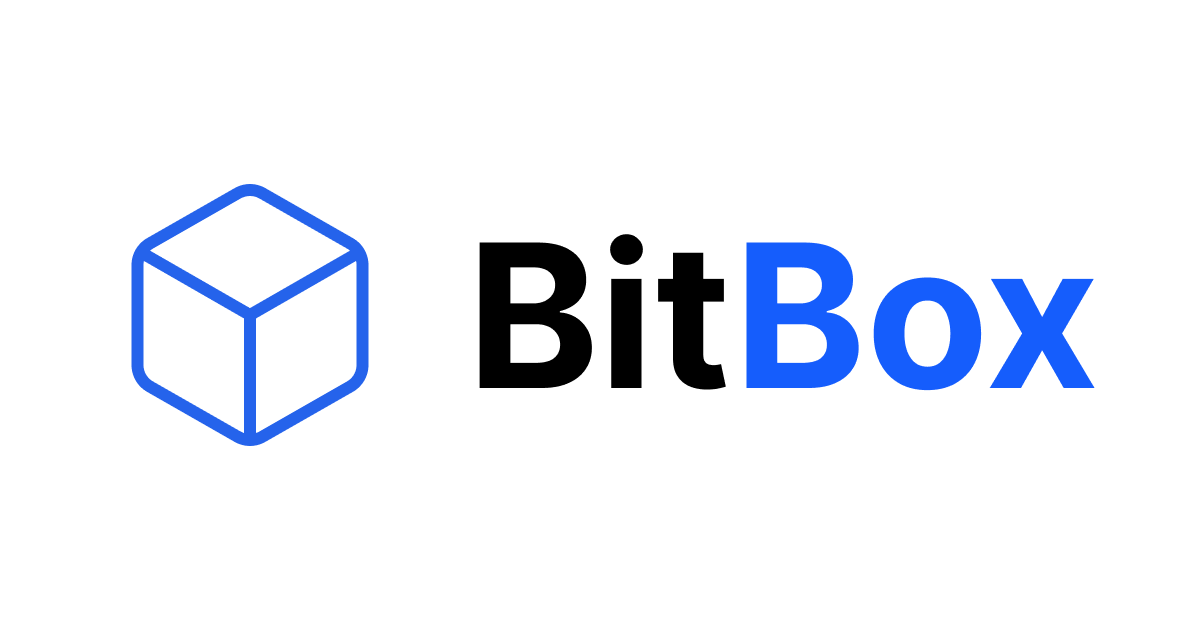
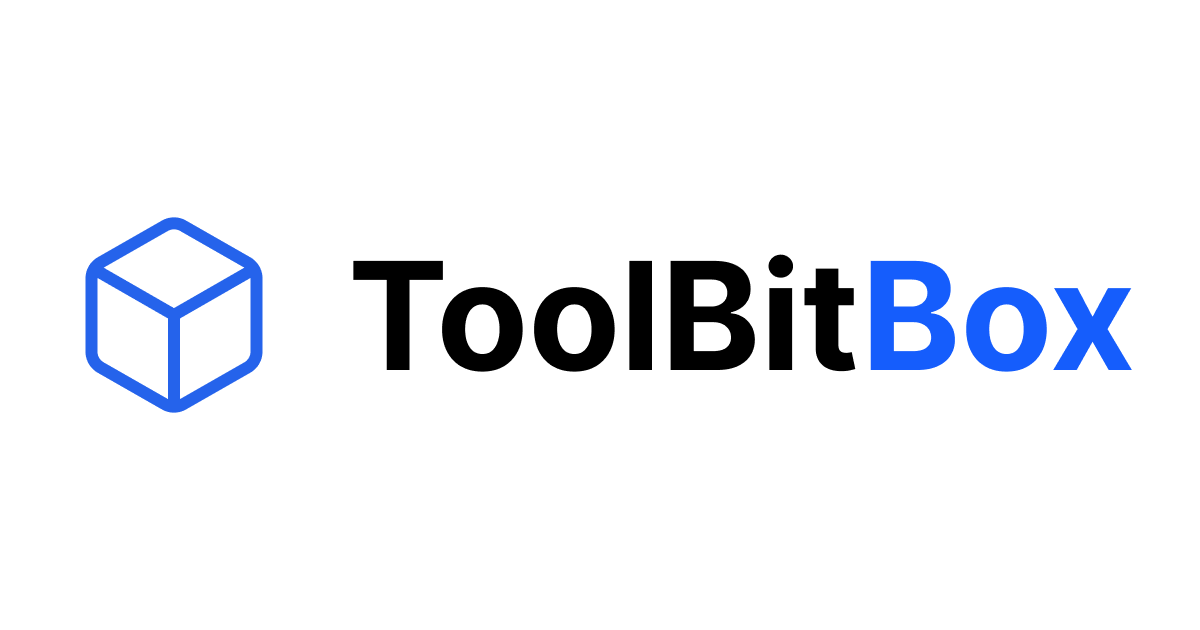
:recycle: rename project from bitbox to toolbitbox

Changed region(s): [[0.0617, 0.2714, 0.9558, 0.7238]]

diff --git a/src/app/layout.tsx b/src/app/layout.tsx
@@ -19,8 +19,8 @@ const geistMono = Geist_Mono({
 
 export const metadata: Metadata = {
   title: {
-    template: "%s | BitBox", // 페이지별 타이틀 뒤에 자동으로 붙음 (예: 진법 변환기 | BitBox)
-    default: "BitBox - 개발자를 위한 스마트 도구 상자", // 기본 타이틀
+    template: "%s | ToolBitBox", // 페이지별 타이틀 뒤에 자동으로 붙음 (예: 진법 변환기 | BitBox)
+    default: "ToolBitBox - 개발자를 위한 스마트 도구 상자", // 기본 타이틀
   },
   description:
     "2진수, 8진수, 16진수 변환부터 2의 보수 계산까지. 컴퓨터 공학 전공자와 개발자를 위한 필수 웹 유틸리티 모음입니다.",
@@ -30,19 +30,19 @@ export const metadata: Metadata = {
     "16진수 계산",
     "2의 보수",
     "개발자 도구",
-    "BitBox",
+    "ToolBitBox",
   ],
-  authors: [{ name: "BitBox Team" }],
-  creator: "BitBox Team",
+  authors: [{ name: "ToolBitBox Team" }],
+  creator: "ToolBitBox Team",
   verification: {
     google: "wD1i8ns0RmEvTKPEiElHXByzNaW_HYA_UHiGv-XidUU",
   },
   openGraph: {
-    title: "BitBox - 개발자를 위한 스마트 도구 상자",
+    title: "ToolBitBox - 개발자를 위한 스마트 도구 상자",
     description:
-      "복잡한 계산은 BitBox에 맡기세요. 빠르고 정확한 개발자용 도구 모음.",
+      "복잡한 계산은 ToolBitBox에 맡기세요. 빠르고 정확한 개발자용 도구 모음.",
     url: "https://bit-box.vercel.app",
-    siteName: "BitBox",
+    siteName: "ToolBitBox",
     images: [
       {
         url: "/opengraph-image.png",

diff --git a/src/components/footer.tsx b/src/components/footer.tsx
@@ -11,7 +11,7 @@ export function Footer() {
           <div className="flex flex-col items-center gap-2 md:items-start">
             <div className="flex items-center gap-2">
               <Box className="h-5 w-5 text-blue-600" />
-              <span className="text-lg font-bold">BitBox</span>
+              <span className="text-lg font-bold">ToolBitBox</span>
             </div>
             <p className="text-sm text-slate-500">
               개발자와 학생을 위한 스마트한 도구 상자
@@ -26,15 +26,12 @@ export function Footer() {
             <a href="/about" className="hover:text-blue-600">
               About
             </a>
-            {/* <a href="mailto:contact@bitbox.com" className="hover:text-blue-600">
-              Contact
-            </a> */}
           </div>
 
           {/* 소셜/링크 아이콘 */}
           <div className="flex items-center gap-4 text-slate-400">
             <a
-              href="https://github.com/Jeongin205/bitbox"
+              href="https://github.com/Jeongin205/toolbitbox"
               target="_blank"
               className="hover:text-slate-900"
             >
@@ -44,7 +41,7 @@ export function Footer() {
         </div>
 
         <div className="mt-8 border-t pt-8 text-center text-xs text-slate-400">
-          <p>© 2026 BitBox. Built by Ji-in in Software Engineering.</p>
+          <p>© 2026 ToolBitBox. Built by Ji-in in Software Engineering.</p>
         </div>
       </div>
     </footer>

diff --git a/src/app/about/page.tsx b/src/app/about/page.tsx
@@ -13,7 +13,8 @@ import { Badge } from "@/components/ui/badge";
 
 export const metadata: Metadata = {
   title: "소개 (About)",
-  description: "BitBox 프로젝트 개발 스토리와 사용된 기술 스택을 소개합니다.",
+  description:
+    "ToolBitBox 프로젝트 개발 스토리와 사용된 기술 스택을 소개합니다.",
 };
 
 export default function AboutPage() {
@@ -22,7 +23,7 @@ export default function AboutPage() {
       {/* 1. 헤더 섹션 */}
       <section className="mb-12 text-center">
         <h1 className="mb-4 text-4xl font-extrabold tracking-tight text-slate-900">
-          About <span className="text-blue-600">BitBox</span>
+          About <span className="text-blue-600">ToolBitBox</span>
         </h1>
         <p className="mx-auto max-w-2xl text-lg text-slate-600">
           개발자와 전공생을 위한 웹 유틸리티 도구 상자입니다.
@@ -42,7 +43,7 @@ export default function AboutPage() {
           </CardHeader>
           <CardContent className="space-y-4 text-slate-600 leading-relaxed">
             <p>
-              BitBox는 컴퓨터 구조와 시스템 프로그래밍을 공부하며 겪었던
+              ToolBitBox는 컴퓨터 구조와 시스템 프로그래밍을 공부하며 겪었던
               <strong> "진법 변환의 번거로움"</strong>을 해결하기 위해
               시작되었습니다.
             </p>

diff --git a/src/app/page.tsx b/src/app/page.tsx
@@ -29,7 +29,7 @@ export default function HomePage() {
           개발자를 위한 <span className="text-blue-600">스마트 도구 상자</span>
         </h1>
         <p className="mx-auto max-w-2xl text-lg text-slate-600">
-          복잡한 계산과 변환 작업을 BitBox에서 한 번에 해결하세요.
+          복잡한 계산과 변환 작업을 ToolBitBox에서 한 번에 해결하세요.
           <br className="hidden sm:inline" />
           공학용 계산기보다 빠르고, 일반 검색보다 정확합니다.
         </p>

diff --git a/src/components/tools/hex-color-converter.tsx b/src/components/tools/hex-color-converter.tsx
@@ -10,7 +10,7 @@ import { ToolHeader } from "@/components/tools/tool-header";
 import { CopyInput } from "@/components/copy-input";
 
 export function HexColorConverter() {
-  // 기본값: BitBox의 메인 컬러 (Blue-600)
+  // 기본값: ToolBitBox의 메인 컬러 (Blue-600)
   const [color, setColor] = useState({ r: 0, g: 0, b: 0 });
   const [hex, setHex] = useState("#000000");
 

diff --git a/src/app/tools/color/page.tsx b/src/app/tools/color/page.tsx
@@ -1,7 +1,7 @@
 import { HexColorConverter } from "@/components/tools/hex-color-converter";
 
 export const metadata = {
-  title: "HEX 색상 추출기 - BitBox",
+  title: "HEX 색상 추출기 - ToolBitBox",
   description:
     "RGB 값을 조절하여 웹에서 사용하는 16진수(Hex) 색상 코드를 생성합니다.",
 };

diff --git a/src/components/navbar.tsx b/src/components/navbar.tsx
@@ -81,7 +81,7 @@ export function Navbar() {
             className="hidden md:flex"
           >
             <a
-              href="https://github.com/Jeongin205/bitbox"
+              href="https://github.com/Jeongin205/toolbitbox"
               target="_blank"
               rel="noreferrer"
             >

diff --git a/src/app/tools/base/page.tsx b/src/app/tools/base/page.tsx
@@ -1,7 +1,7 @@
 import { BaseConverter } from "@/components/tools/base-converter";
 
 export const metadata = {
-  title: "진법 변환기 - BitBox",
+  title: "진법 변환기 - ToolBitBox",
   description: "2진수, 8진수, 10진수, 16진수를 실시간으로 상호 변환합니다.",
 };
 

diff --git a/README.md b/README.md
@@ -1,4 +1,4 @@
-# BitBox 📦
+# ToolBitBox 📦
 
 > **Developer's Smart Toolkit** > 컴퓨터 공학 전공자와 개발자를 위한 웹 유틸리티 모음집입니다.
 
@@ -9,7 +9,7 @@
 
 ## 🚀 Introduction
 
-**BitBox**는 복잡한 계산이나 변환 작업을 빠르고 직관적으로 처리하기 위해 만들어진 웹 도구입니다.
+**ToolBitBox**는 복잡한 계산이나 변환 작업을 빠르고 직관적으로 처리하기 위해 만들어진 웹 도구입니다.
 기존 공학용 계산기의 복잡한 UI를 개선하고, **shadcn/ui**를 활용하여 모던하고 일관된 사용자 경험(UX)을 제공합니다.
 
 🔗 **Live Demo:** [https://bit-box.vercel.app](https://bit-box.vercel.app)
